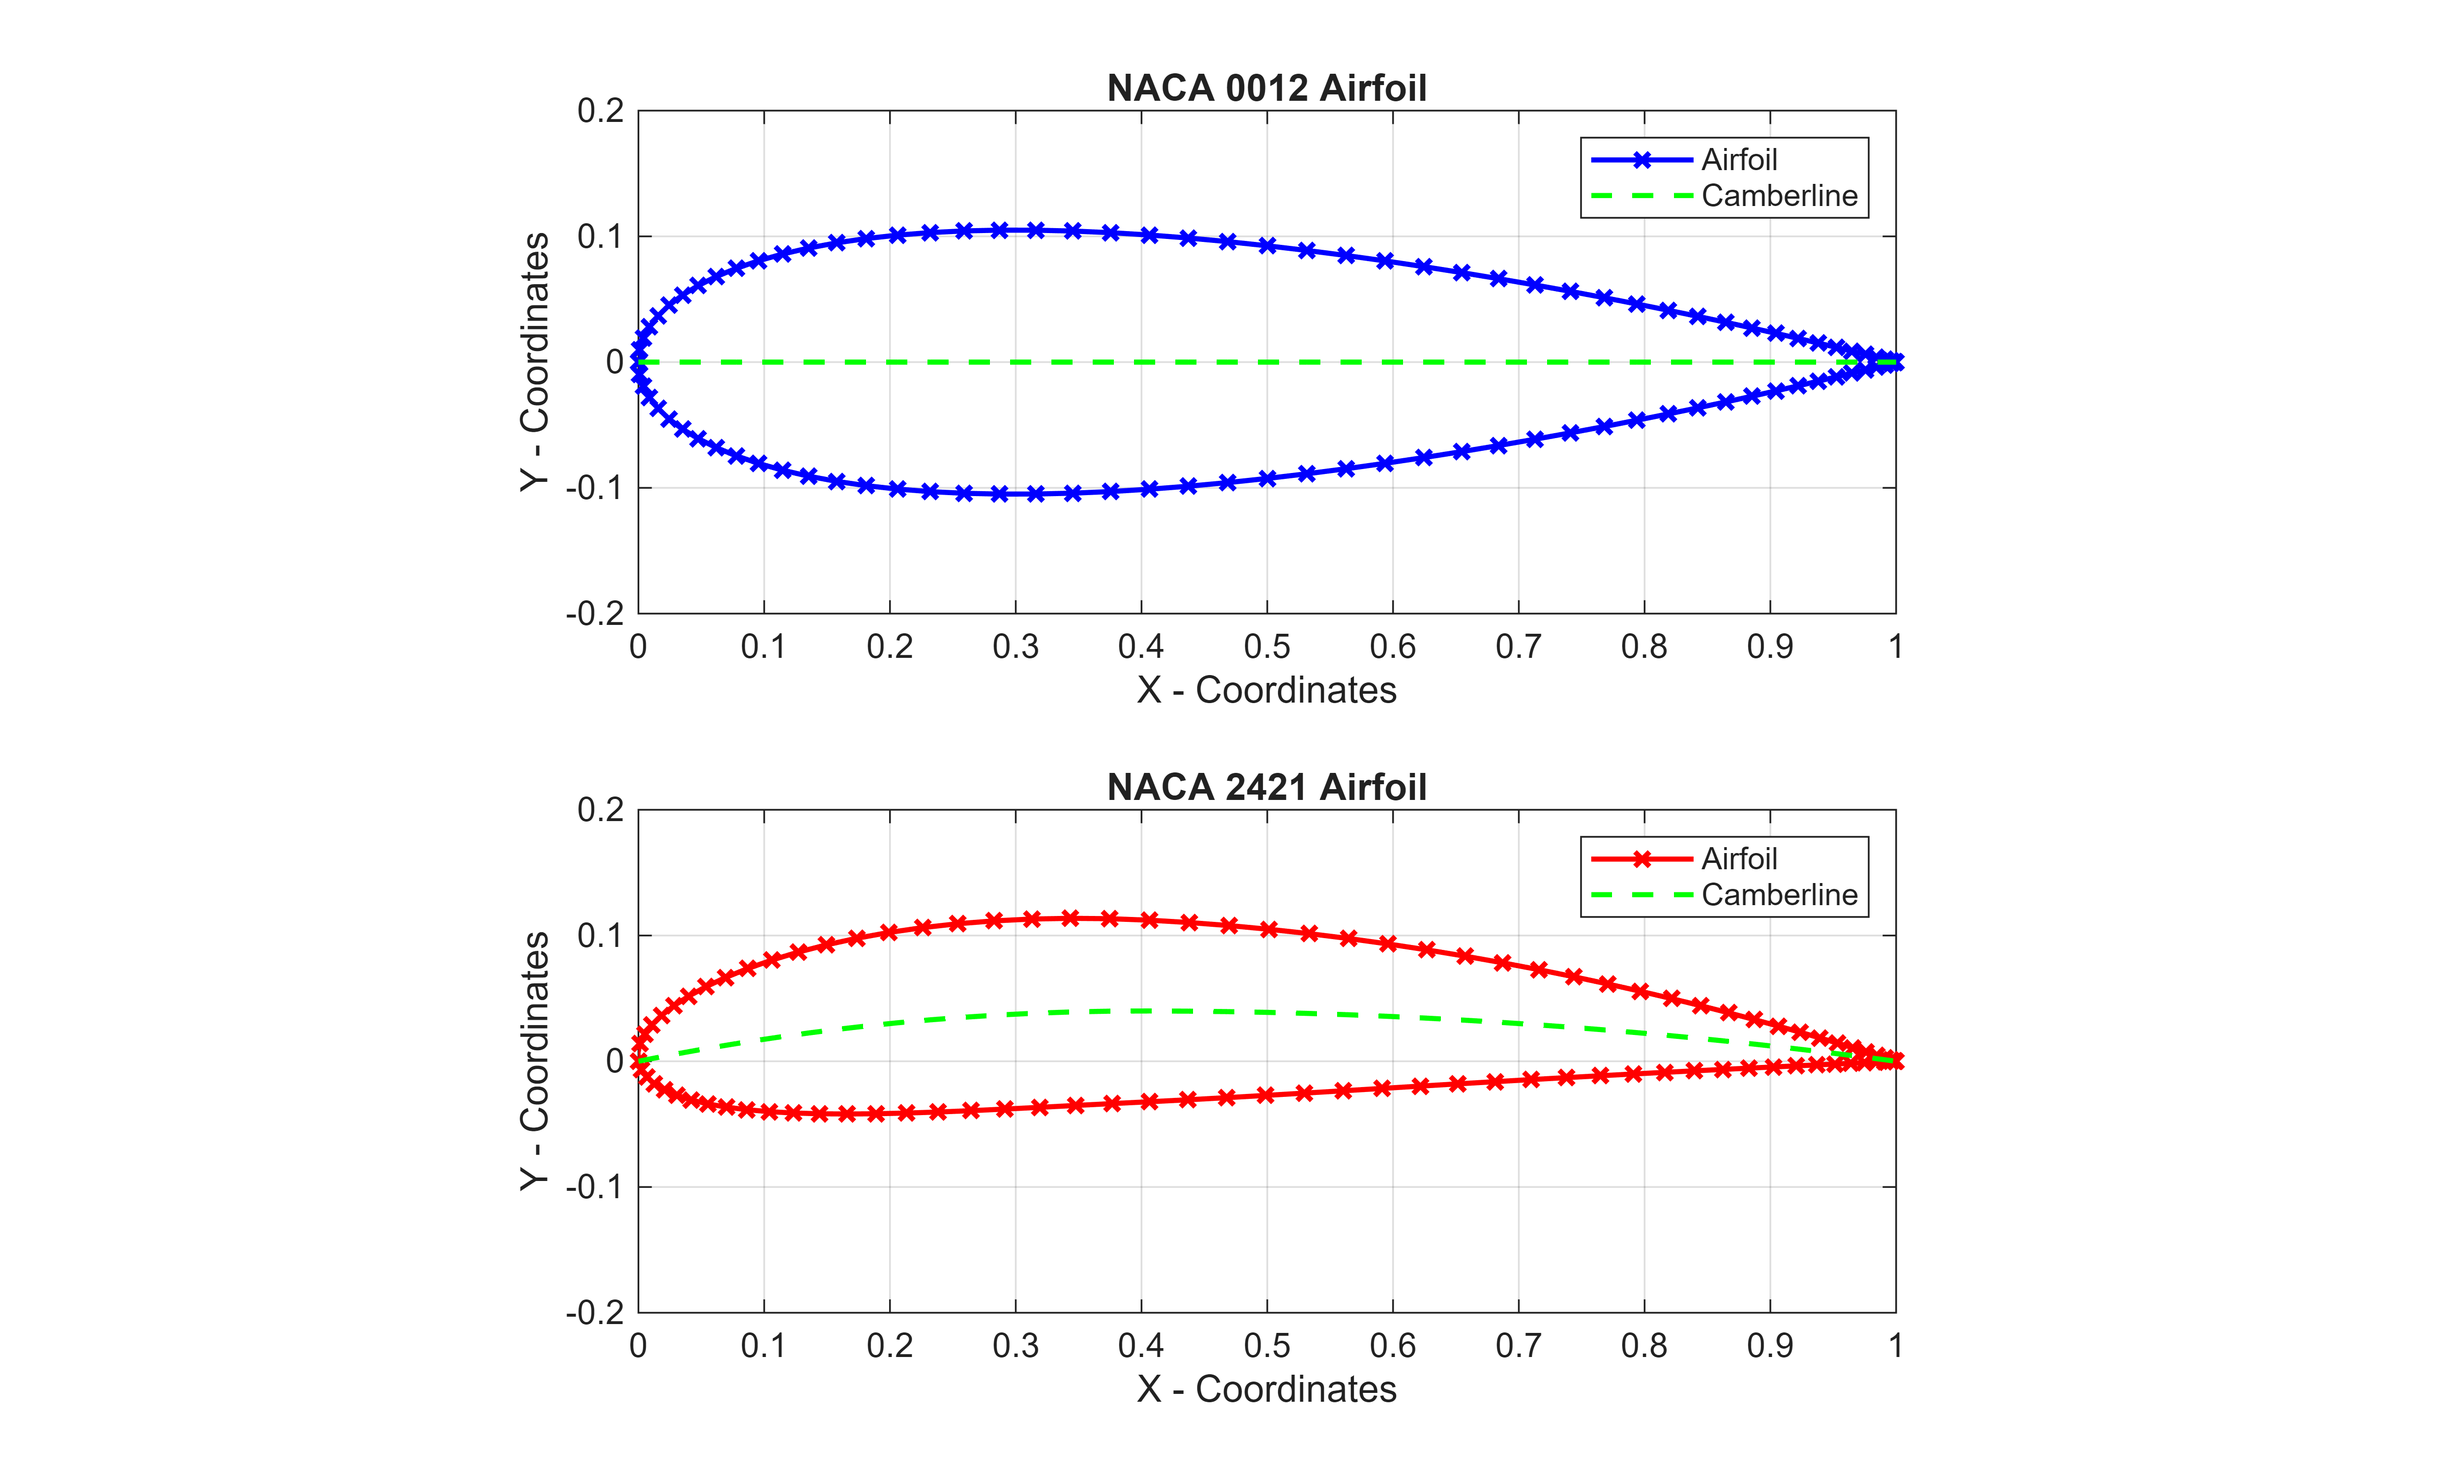
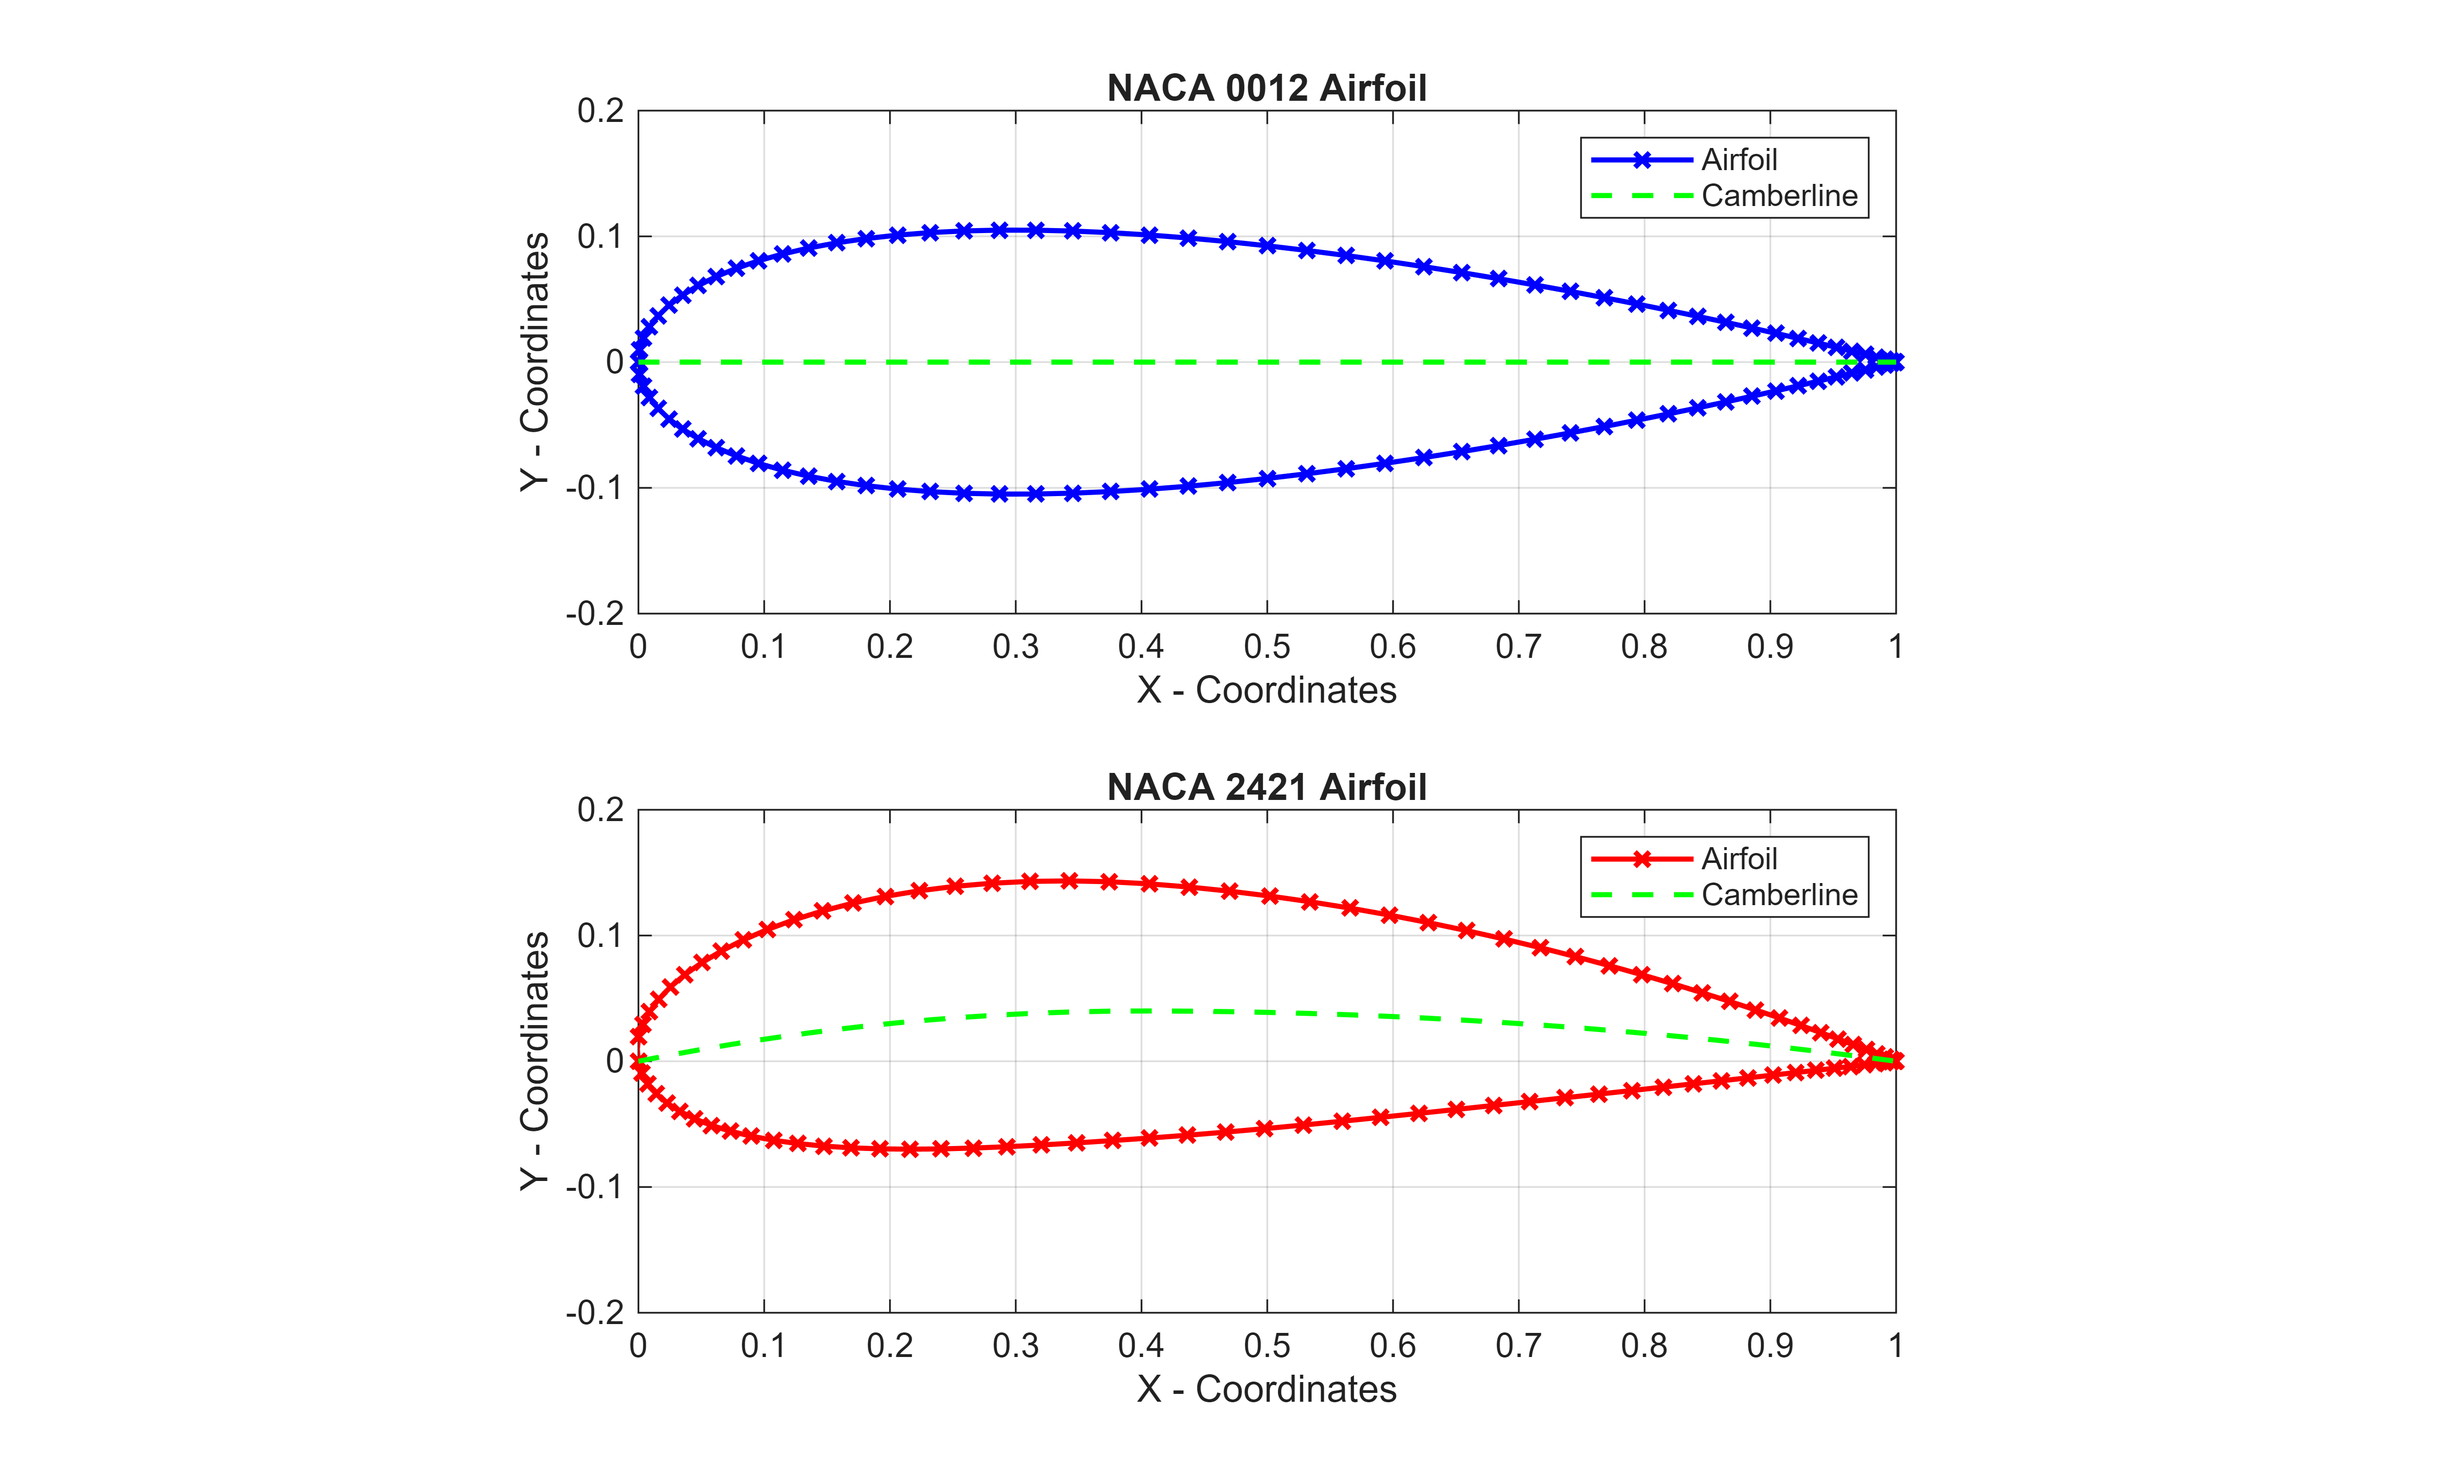
changes with correct plots

Changed region(s): [[0.249, 0.589, 0.7781, 0.806]]

diff --git a/Lab3_Main.m b/Lab3_Main.m
@@ -1,4 +1,5 @@
 
+
 %% ASEN 3802 -- Lab 3 -- Aerodynamics Lab
 
 %% Summary: 
@@ -8,12 +9,10 @@
 % used, N.
 % Task 3: Using thin airfoil theory equations, the effects of airfoil thickness on overall lift will
 % be evaluated.
-% Task 4: Using the number of panels from task 2, calculate and plot the sectional coefficient of lift, cl, versus angle
-% of attack for NACA 0012, NACA 2412, NACA 4412 airfoils
 
 %% Author(s): Graeme Appel, McKenna Coakley, Jake Wzientek, Cullen Watz
 
-%% Last Revised: 4/8/2026
+%% Last Revised: 4/7/2026
 
 
 
@@ -56,7 +55,7 @@ ylim([-0.2*c 0.2*c])
 grid on
 xlabel('X - Coordinates');
 ylabel('Y - Coordinates');
-title("NACA 0021 Airfoil")
+title("NACA 0012 Airfoil")
 legend('Airfoil', 'Camberline')
 
 subplot(2, 1, 2);
@@ -78,7 +77,7 @@ clc
 clear
 
 %% Task 2 -- 
-% Define test variables NACA 0012:
+% Define test variables:
 i = 1;
 m = 0/100;
 p = 0/10;
@@ -182,52 +181,46 @@ N_req = N_vec(end); % vortex panels required is the last value of the converging
 [alpha_L0_thin_0018, alpha_L0_vort_0018, cl_thin_0018, CL_vort_0018, slope_thin_0018, slope_vort_0018] = Thin_Airfoil_Theory(m, p, t, c, N_req, alpha, v_inf);
 
 
-% Read in experimental data
-% experimental data from digitizer
+% Read in experimental data experimental data from digitizer for each airfoil
+
 data1 = load("NACA0006.mat");
 data1 = data1.data;
 AoA_exp0006 = data1(:,1);
 CL_exp0006 = data1(:,2);
-
-% % Find the measured angle of attack value (i.e AoA_exp0006) that occurs when the CL values are
-% % closest to 0 (for zero lift angle of attack)
-% [~, alpha_index_0006] = min(abs(CL_exp0006)); % finds index where CL is closest to 0
-% AoA_L0_exp0006 = AoA_exp0006(alpha_index_0006); % Use this value for table comparison
-
+% find L=0 AoA using a polyfit
 p_0006 = polyfit(AoA_exp0006, CL_exp0006,1);
 slope_0006 = p_0006(1);
 intercept_0006 = p_0006(2);
 AoA_L0_exp0006 = -intercept_0006 / slope_0006;
 
+% read data
 data2 = load("NACA0012.mat");
 data2 = data2.data;
 AoA_exp0012 = data2(:,1);
 CL_exp0012 = data2(:,2);
-
-% % Find the measured angle of attack value (i.e AoA_exp0006) that occurs when the CL values crosses 0
-% [~, alpha_index_0012] = min(abs(CL_exp0012)); % finds index where CL is closest to 0
-% AoA_L0_exp0012 = AoA_exp0012(alpha_index_0012); % Use this value for table comparison
-
+% find L=0 AoA using a polyfit
 p_0012 = polyfit(AoA_exp0012, CL_exp0012,1);
 slope_0012 = p_0012(1);
 intercept_0012 = p_0012(2);
 AoA_L0_exp0012 = -intercept_0012 / slope_0012;
 
+% read data
 data3 = load("NACA2412.mat");
 data3 = data3.data;
 AoA_exp2412 = data3(:,1);
 CL_exp2412 = data3(:,2);
-
+% find L=0 AoA using a polyfit
 p_2412 = polyfit(AoA_exp2412, CL_exp2412,1);
 slope_2412 = p_2412(1);
 intercept_2412 = p_2412(2);
 AoA_L0_exp2412 = -intercept_2412 / slope_2412;
 
+% read data
 data4 = load("NACA4412.mat");
 data4 = data4.data;
 AoA_exp4412 = data4(:,1);
 CL_exp4412 = data4(:,2);
-
+% find L=0 AoA using a polyfit
 p_4412 = polyfit(AoA_exp4412, CL_exp4412,1);
 slope_4412 = p_4412(1);
 intercept_4412 = p_4412(2);
@@ -261,9 +254,8 @@ ylabel('C_L')
 title('C_L vs \alpha for Symmetric Airfoils')
 legend('Location','best')
 grid on
-% Create output tables
 
-% ---------------- Zero Lift Angle of Attack Tables ----------------
+% Zero Lift Angle of Attack Tables 
 
 % NACA 0006 Airfoil
 disp('Table: Zero-Lift Angle of Attack Comparison for NACA 0006 (deg)')
@@ -287,7 +279,7 @@ Results_Table = table( ...
 disp(Results_Table)
 
 
-% ---------------- Lift Curve Slope Tables ----------------
+% Lift Curve Slope Tables
 
 % NACA 0006 Airfoil
 disp('Table: Lift Curve Slope Comparison for NACA 0006 (1/deg)')
@@ -311,7 +303,7 @@ Results_Table = table( ...
 disp(Results_Table)
 
 
-%% Task 4
+%% Task 4 (cambered airfoils)
 
 %  Call thin airfoil theory function for each different airfoil case 
 
@@ -328,24 +320,24 @@ m = 4/100; p = 4/10; t = 12/100; c = 1;
 [alpha_L0_thin_4412, alpha_L0_vort_4412, cl_thin_4412, CL_vort_4412, slope_thin_4412, slope_vort_4412] = Thin_Airfoil_Theory(m,p,t,c,N_req,alpha,v_inf);
 
 
-% -------- Plot --------
+% Plot
 
 figure()
 hold on
 
 alpha_vec = linspace(-8,8,N_req);
 
-% --- NACA 0012 (BLUE) ---
+% NACA 0012
 plot(alpha_vec, CL_vort_0012, 'b-', 'DisplayName','0012 Vortex')
 plot(alpha_vec, cl_thin_0012, 'b--', 'DisplayName','0012 Thin')
 plot(AoA_exp0012, CL_exp0012, 'b^', 'LineStyle','none', 'DisplayName','0012 Exp')
 
-% --- NACA 2412 (RED) ---
+% NACA 2412 
 plot(alpha_vec, CL_vort_2412, 'r-', 'DisplayName','2412 Vortex')
 plot(alpha_vec, cl_thin_2412, 'r--', 'DisplayName','2412 Thin')
 plot(AoA_exp2412, CL_exp2412, 'r^', 'LineStyle','none', 'DisplayName','2412 Exp')
 
-% --- NACA 4412 (GREEN) ---
+% NACA 4412
 plot(alpha_vec, CL_vort_4412, 'g-', 'DisplayName','4412 Vortex')
 plot(alpha_vec, cl_thin_4412, 'g--', 'DisplayName','4412 Thin')
 plot(AoA_exp4412, CL_exp4412, 'g^', 'LineStyle','none', 'DisplayName','4412 Exp')
@@ -358,8 +350,7 @@ title('C_L vs \alpha for Cambered Airfoils')
 legend('Location','best')
 grid on
 
-% ---------------- Zero Lift Angle of Attack Tables ----------------
-
+% Zero Lift Angle of Attack Tables
 % NACA 0012 Airfoil
 disp('Table: Zero-Lift Angle of Attack Comparison for NACA 0012 (deg)')
 Results_Table = table( ...
@@ -382,8 +373,7 @@ Results_Table = table( ...
 disp(Results_Table)
 
 
-% ---------------- Lift Curve Slope Tables ----------------
-
+% Lift Curve Slope Tables
 % NACA 0012 Airfoil
 disp('Table: Lift Curve Slope Comparison for NACA 0012 (1/deg)')
 Results_Table = table( ...
@@ -739,7 +729,7 @@ alpha_L0_thin = (-1/pi) * trapz(theta_0, integrand); % computing zero lift angle
 % loop over all alpha vector values to get vector outputs of CL and cl for each alpha case
 for i = 1:length(alpha_vec) 
 CL_vort(i) = Vortex_Panel(x_b, y_b, v_inf, alpha_vec(i));
-cl_thin(i) = (2*pi)*(alpha_rad(i) - alpha_L0_thin); % compute sectional lift coefficient with given alpha value (note: alpha_L0 should be constant, only alpha input indexes)
+cl_thin(i) = (2*pi)*(alpha_rad(i) - -alpha_L0_thin); % compute sectional lift coefficient with given alpha value (note: alpha_L0 should be constant, only alpha input indexes)
 end
 
 % calculate lift slope for both vortex and thin airfoil methods:
